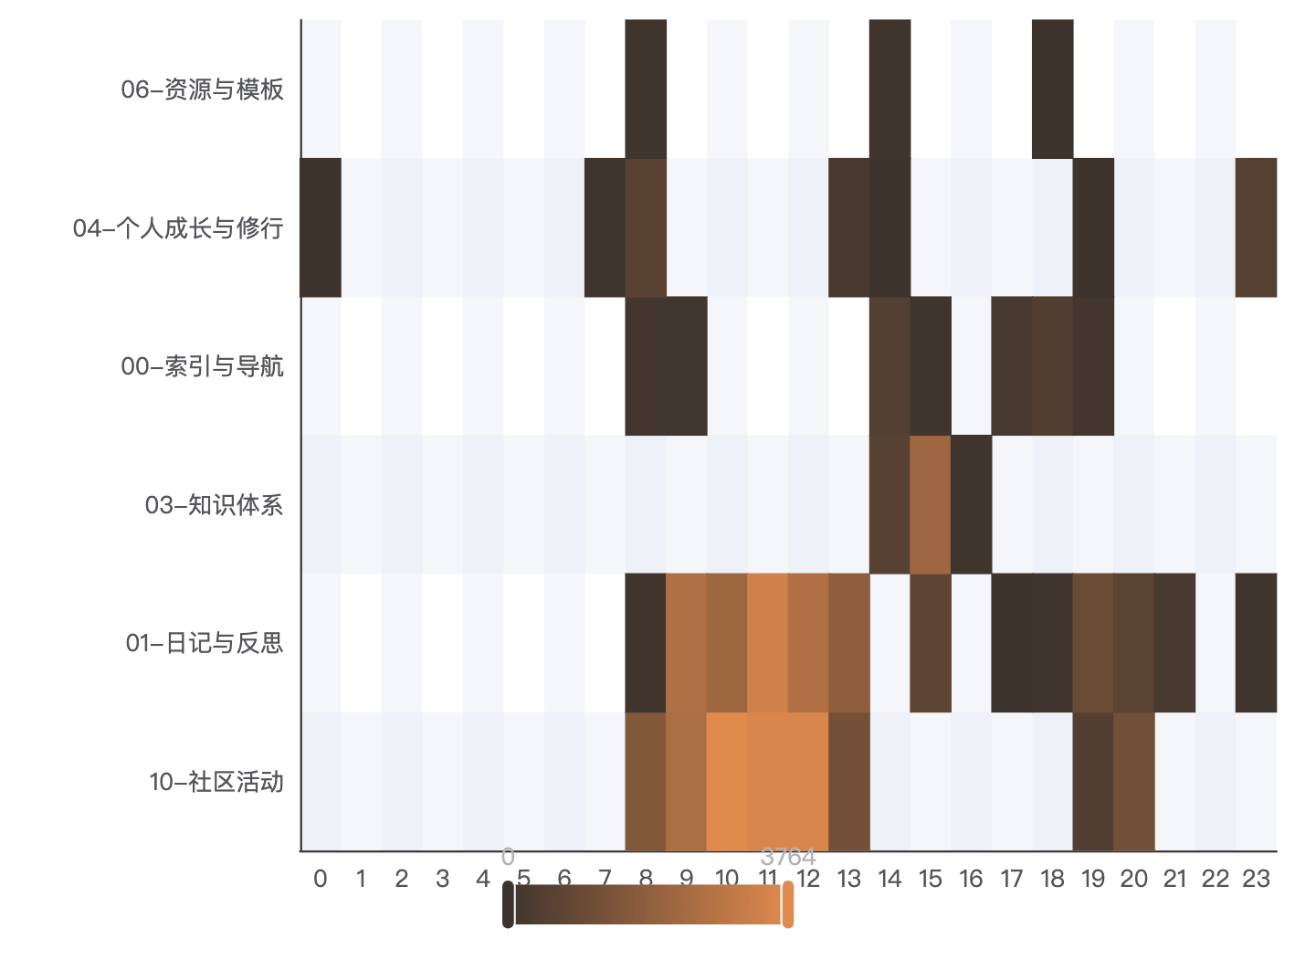
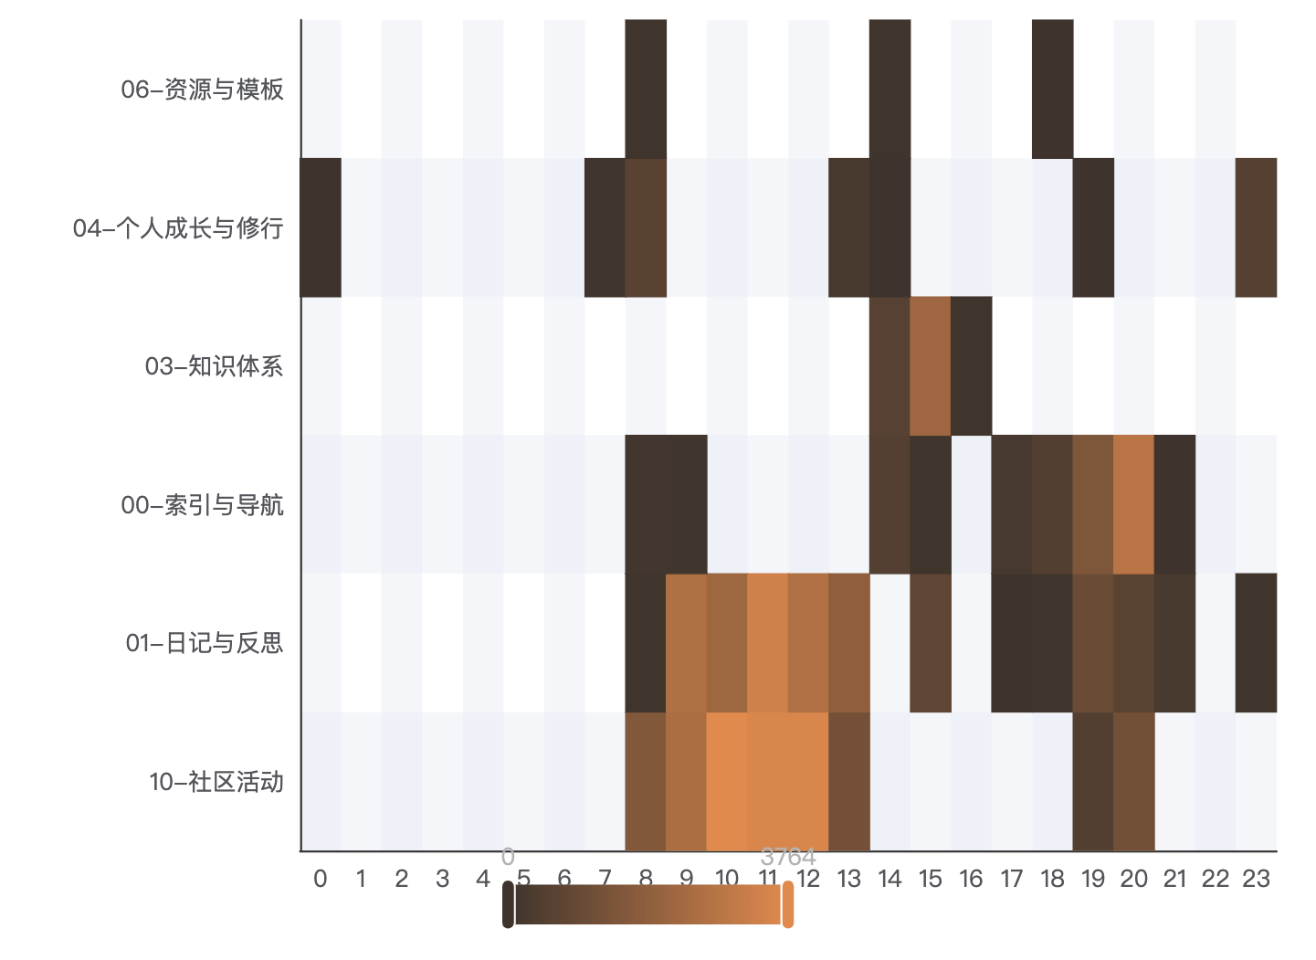
fix: store active segments to preserve time semantics across blur gaps

diff --git a/src/report/aggregate.ts b/src/report/aggregate.ts
@@ -165,8 +165,9 @@ export function buildReport(events: TrackedEvent[], settings: MindTraceSettings)
     const levels = folderLevels(s.notePath);
     const folders = levels.length > 0 ? levels : [UNCATEGORIZED];
     const top = levels.length > 0 ? levels[0] : UNCATEGORIZED;
+    const segs = sessionSegments(s);
     const sessionEdits = (editsByPath.get(s.notePath) ?? []).filter(
-      (e) => e.ts >= s.ts && e.ts < s.ts + s.activeSeconds * 1000,
+      (e) => segmentContains(segs, e.ts),
     );
     const { readSeconds, writeSeconds } = classifyReadWrite(
       s,
@@ -180,7 +181,7 @@ export function buildReport(events: TrackedEvent[], settings: MindTraceSettings)
   // 1. 时段 × 主题矩阵
   const matrixMap = new Map<string, number>();
   for (const p of processed) {
-    const hourSplit = splitByHour(p.session.ts, p.session.activeSeconds);
+    const hourSplit = sessionHourSplit(p.session);
     for (const [hour, secs] of hourSplit) {
       const key = `${hour}|${p.top}`;
       matrixMap.set(key, (matrixMap.get(key) ?? 0) + secs);
@@ -321,7 +322,7 @@ export function buildReport(events: TrackedEvent[], settings: MindTraceSettings)
   // 9. 写作高峰（24h 读写分布，按读写比例切分到小时）
   const peakMap = new Map<number, { read: number; write: number }>();
   for (const p of processed) {
-    const hourSplit = splitByHour(p.session.ts, p.session.activeSeconds);
+    const hourSplit = sessionHourSplit(p.session);
     const total = p.readSeconds + p.writeSeconds;
     const writeRatio = total > 0 ? p.writeSeconds / total : 0;
     for (const [hour, secs] of hourSplit) {
@@ -459,6 +460,31 @@ export function buildReport(events: TrackedEvent[], settings: MindTraceSettings)
     docActivityQuarterly,
     docActivityYearly,
   };
+}
+
+/** 取 session 的活跃段；缺省回退为 [ts, ts + activeSeconds*1000] */
+function sessionSegments(session: SessionEvent): [number, number][] {
+  if (session.activeSegments && session.activeSegments.length > 0) {
+    return session.activeSegments;
+  }
+  return [[session.ts, session.ts + session.activeSeconds * 1000]];
+}
+
+/** 活跃段是否包含某时间点 */
+function segmentContains(segments: [number, number][], ts: number): boolean {
+  return segments.some(([s, e]) => ts >= s && ts < e);
+}
+
+/** 按小时切分 session 的活跃段（多段分别切分再合并） */
+function sessionHourSplit(session: SessionEvent): Map<number, number> {
+  const result = new Map<number, number>();
+  for (const [start, end] of sessionSegments(session)) {
+    const split = splitByHour(start, (end - start) / 1000);
+    for (const [hour, secs] of split) {
+      result.set(hour, (result.get(hour) ?? 0) + secs);
+    }
+  }
+  return result;
 }
 
 /** 把活跃区间 [ts, ts + activeSeconds*1000] 按小时边界切分，返回 hour → seconds */

diff --git a/src/collector/session-tracker.ts b/src/collector/session-tracker.ts
@@ -20,6 +20,8 @@ interface ActiveSession {
   paused: boolean;
   totalChars: number;
   totalWords: number;
+  /** 已结算的活跃段（epoch ms 起止） */
+  segments: [number, number][];
 }
 
 /**
@@ -132,6 +134,7 @@ export class SessionTracker {
       paused: false,
       totalChars: 0,
       totalWords: 0,
+      segments: [],
     };
     this.lastActivityTs = now;
     const file = view.file ?? null;
@@ -157,7 +160,10 @@ export class SessionTracker {
   private settle(): void {
     if (!this.current) return;
     const seg = (this.current.lastActiveTs - this.current.lastSettledTs) / 1000;
-    if (seg > 0) this.current.accumulatedSeconds += seg;
+    if (seg > 0) {
+      this.current.accumulatedSeconds += seg;
+      this.current.segments.push([this.current.lastSettledTs, this.current.lastActiveTs]);
+    }
     this.current.lastSettledTs = this.current.lastActiveTs;
   }
 
@@ -180,6 +186,7 @@ export class SessionTracker {
         endedBy: reason,
         totalChars: sess.totalChars,
         totalWords: sess.totalWords,
+        activeSegments: sess.segments.length > 0 ? sess.segments : undefined,
       },
       true,
     );

diff --git a/tests/aggregate-new.test.ts b/tests/aggregate-new.test.ts
@@ -92,4 +92,24 @@ describe("buildReport 新增指标", () => {
     const link = r.flow.find((f) => f.source === "哲学" && f.target === "计算机");
     expect(link?.value).toBe(1);
   });
+
+  it("activeSegments：多段活跃不被压缩到连续区间", () => {
+    const ts1 = new Date(2026, 0, 5, 9, 0, 0).getTime();
+    const ts2 = new Date(2026, 0, 5, 11, 0, 0).getTime();
+    const s = makeSession({
+      ts: ts1,
+      activeSeconds: 3000, // 共 50 分钟
+      activeSegments: [
+        [ts1, ts1 + 30 * 60 * 1000], // 9:00 - 9:30
+        [ts2, ts2 + 20 * 60 * 1000], // 11:00 - 11:20
+      ],
+    });
+    const r = buildReport([s], settings);
+    const hour9 = r.matrix.find((c) => c.hour === 9);
+    const hour10 = r.matrix.find((c) => c.hour === 10);
+    const hour11 = r.matrix.find((c) => c.hour === 11);
+    expect(hour9?.seconds).toBeCloseTo(1800);
+    expect(hour10?.seconds).toBeUndefined(); // 中间 blur 断档不计入
+    expect(hour11?.seconds).toBeCloseTo(1200);
+  });
 });

diff --git a/src/types.ts b/src/types.ts
@@ -20,6 +20,8 @@ export interface SessionEvent {
   /** session 开始时文档总字数快照 */
   totalChars: number;
   totalWords: number;
+  /** 活跃段区间（epoch ms 起止对）；缺省时回退为 [ts, ts + activeSeconds*1000] */
+  activeSegments?: [number, number][];
 }
 
 /** edit 事件：编辑增量 */
